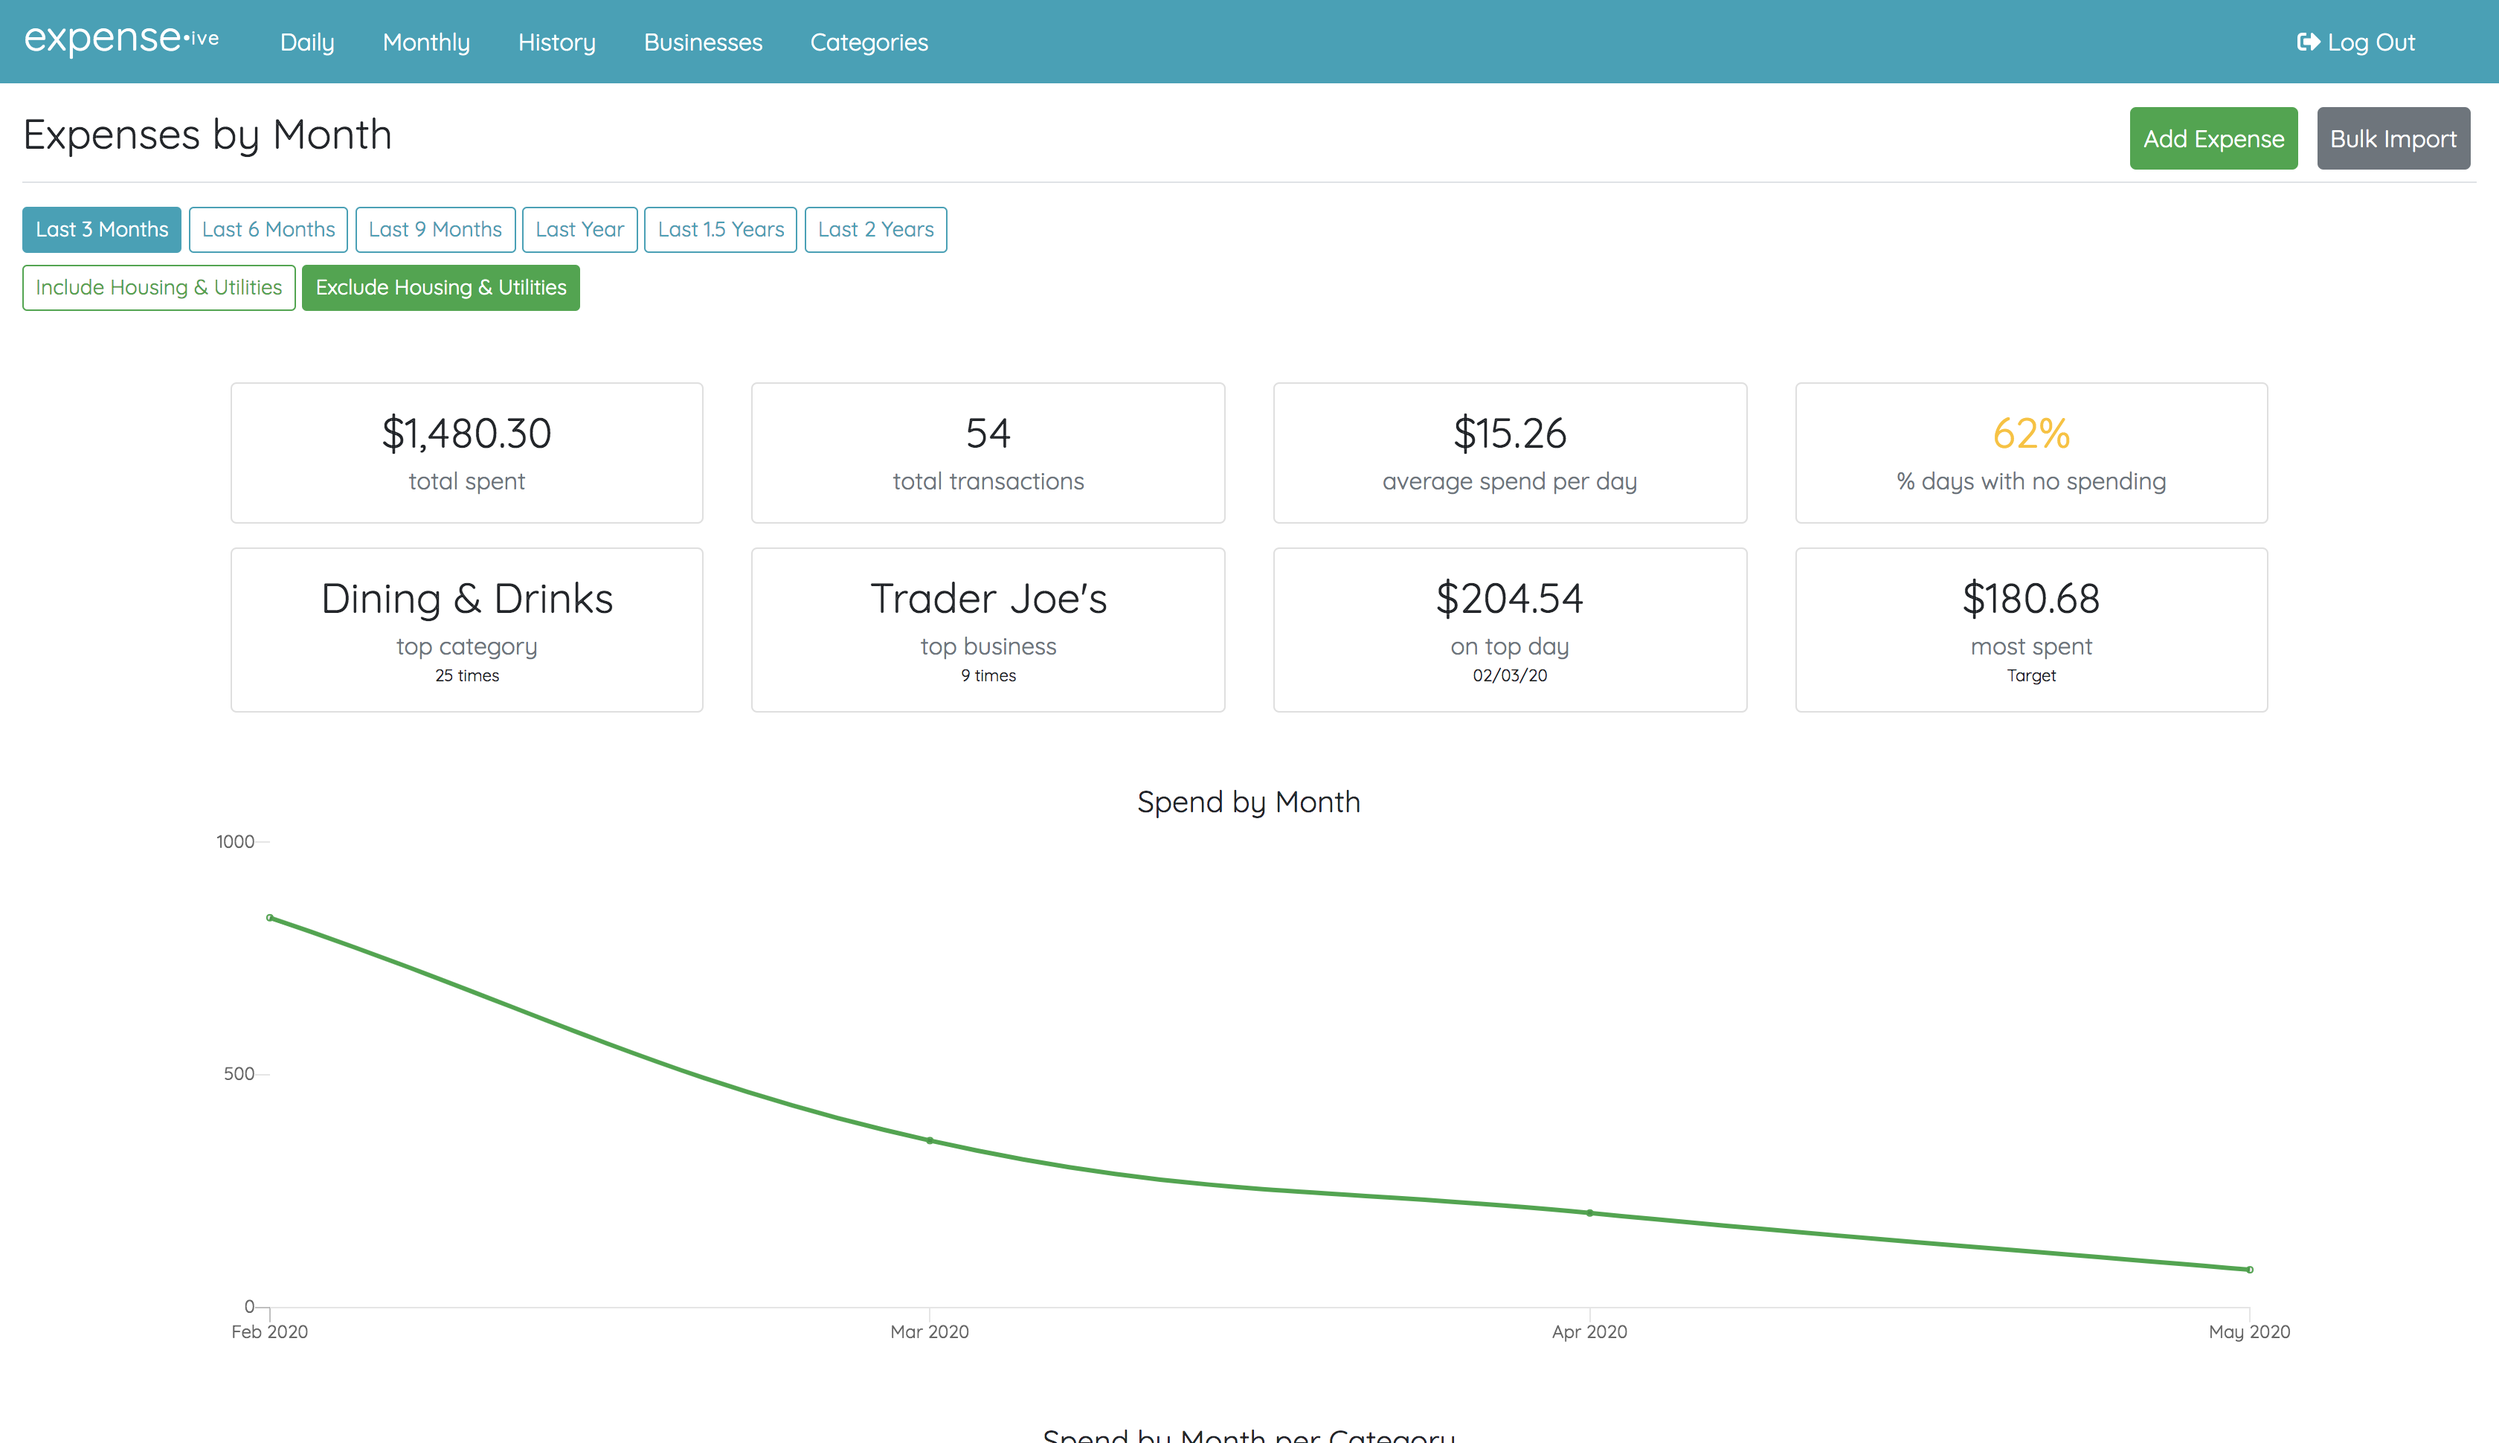
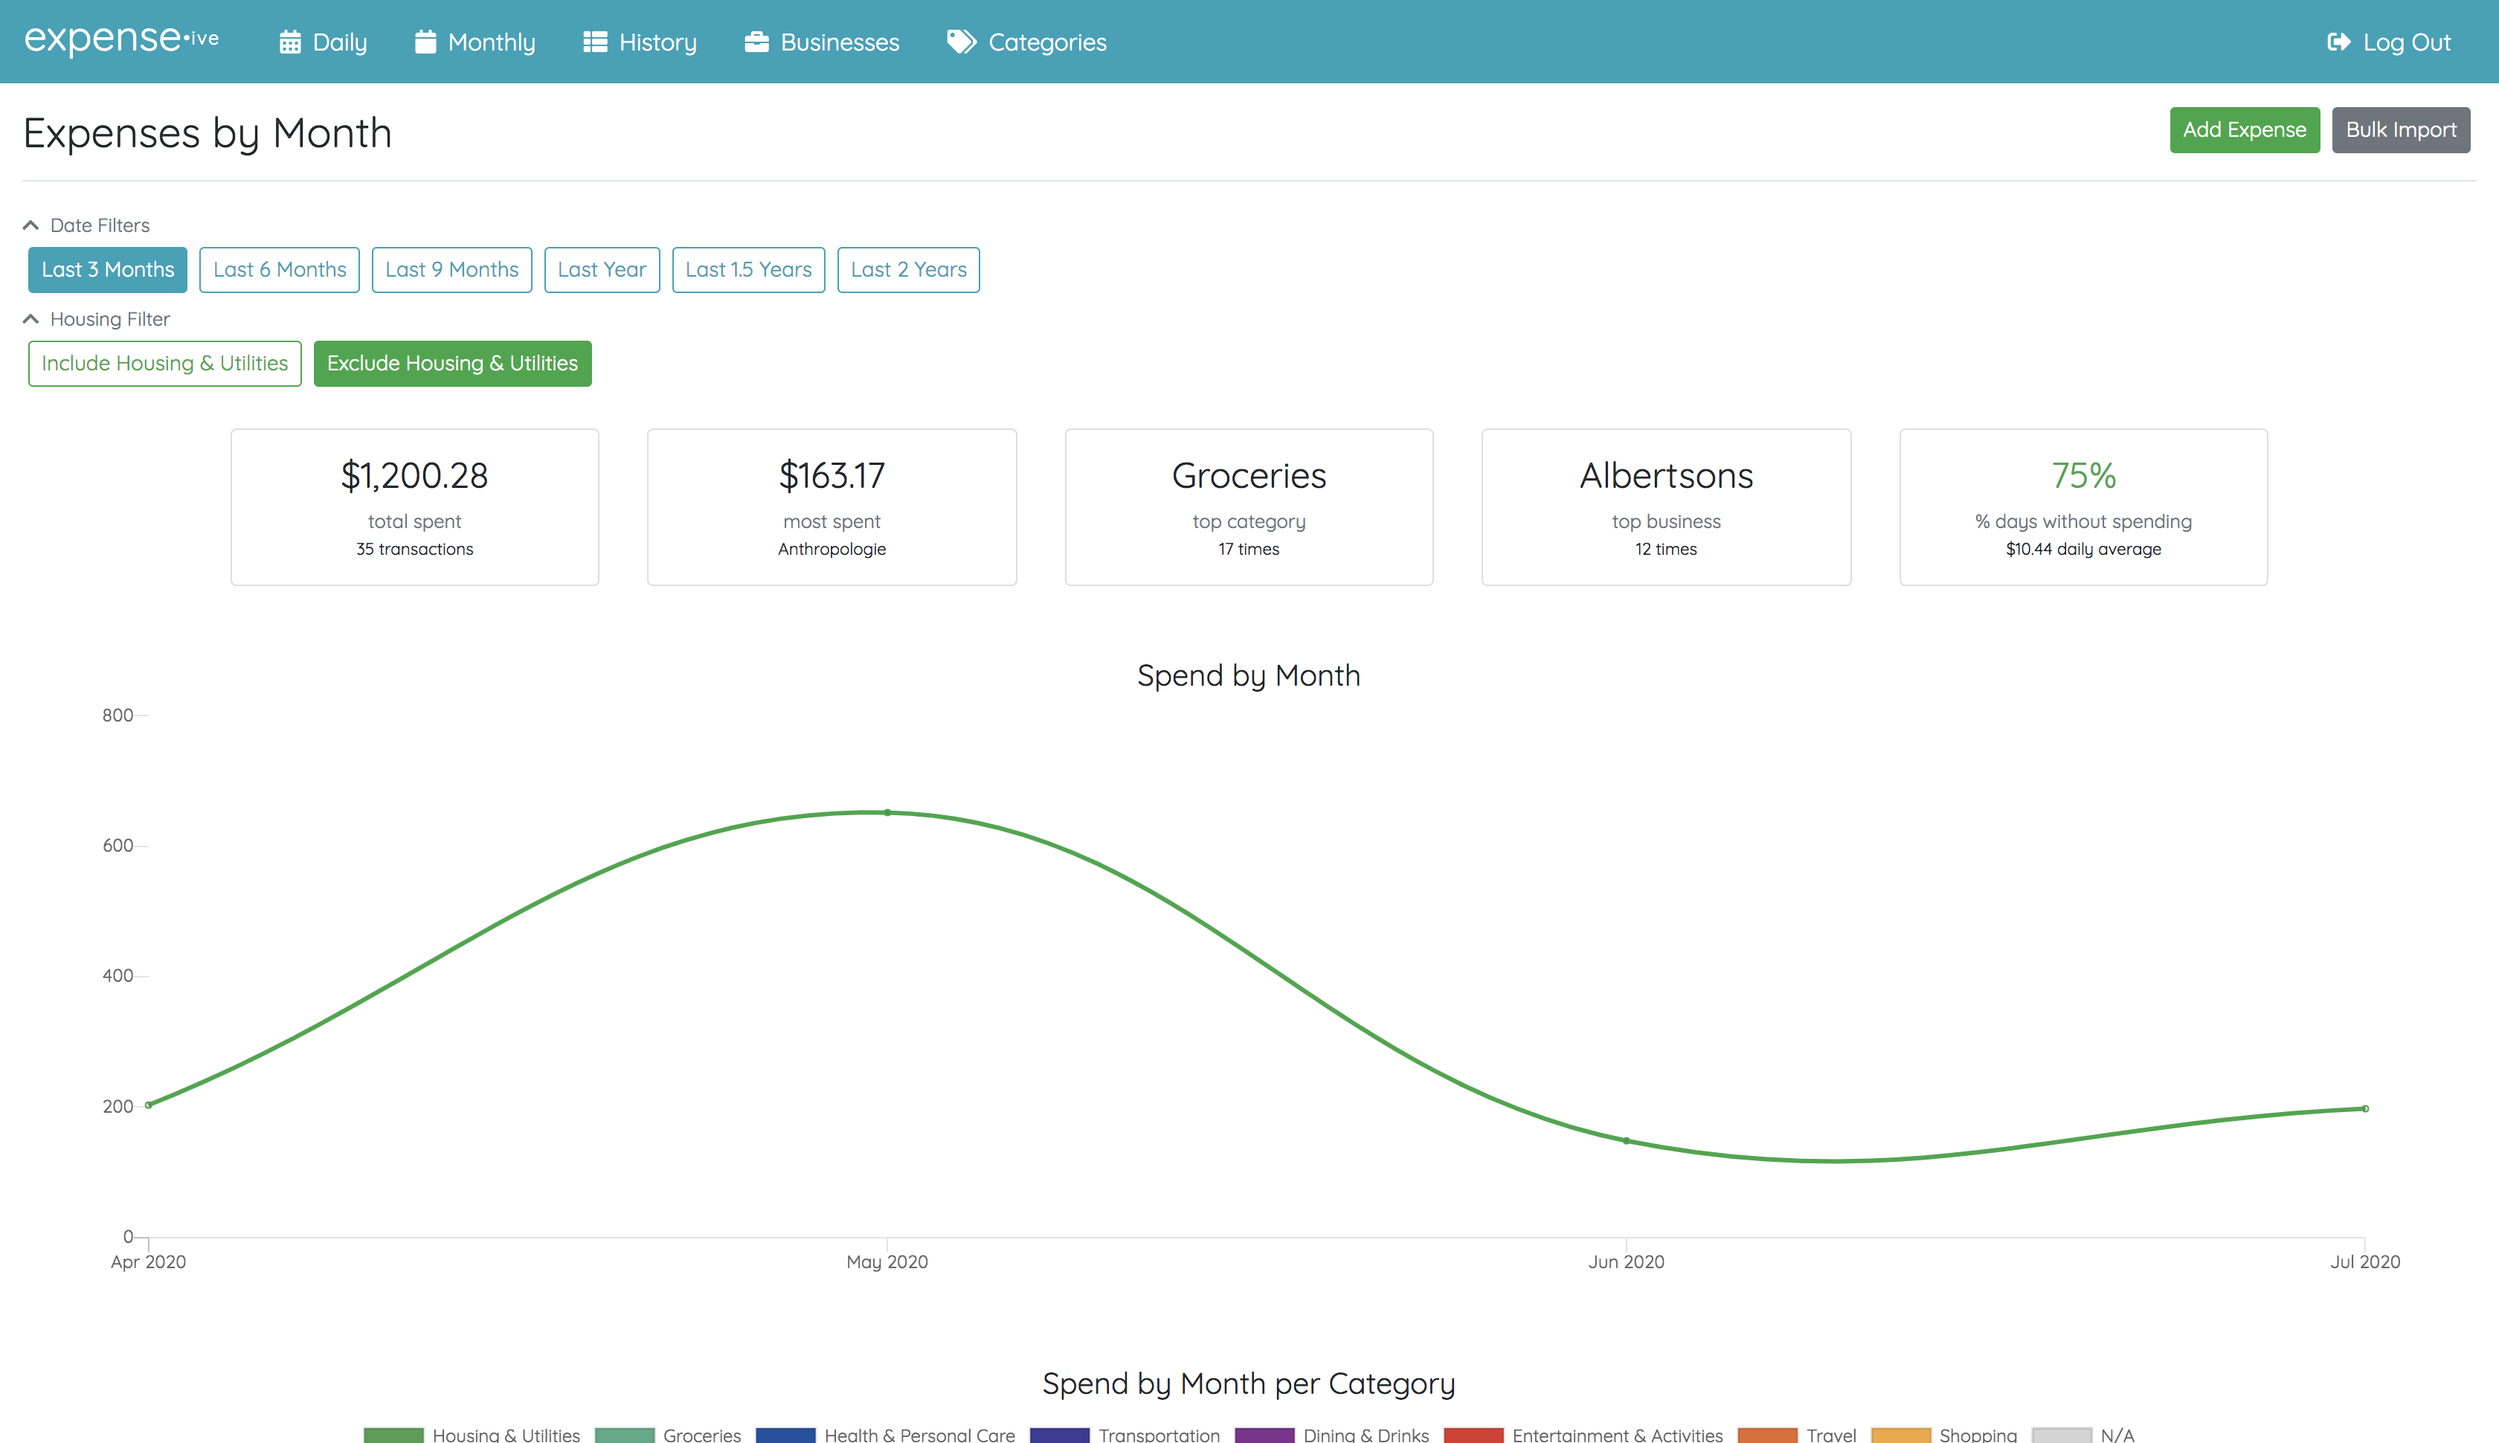
update screenshots to match latest ui for recipedia and expense-ive

diff --git a/index.html b/index.html
@@ -92,6 +92,7 @@
                             <li data-target="#recipediaCarousel" data-slide-to="1"></li>
                             <li data-target="#recipediaCarousel" data-slide-to="2"></li>
                             <li data-target="#recipediaCarousel" data-slide-to="3"></li>
+                            <li data-target="#recipediaCarousel" data-slide-to="4"></li>
                         </ol>
                         <div class="carousel-inner">
                             <div class="carousel-item active">
@@ -101,10 +102,13 @@
                                 <img src="img/recipedia_show.png" class="d-block w-100">
                             </div>
                             <div class="carousel-item">
-                                <img src="img/recipedia_generator.png" class="d-block w-100">
+                                <img src="img/recipedia_roulette.png" class="d-block w-100">
                             </div>
                             <div class="carousel-item">
                                 <img src="img/recipedia_new.gif" class="d-block w-100">
+                            </div>
+                            <div class="carousel-item">
+                                <img src="img/recipedia_search.png" class="d-block w-100">
                             </div>
                         </div>
                         <a class="carousel-control-prev" href="#recipediaCarousel" role="button" data-slide="prev">
@@ -200,7 +204,7 @@
                     <p>
                         The app is pretty much the same tech stack as Recipedia, but I wanted an excuse to play around
                         with charts. It's fairly basic at the moment, but I'm hoping to add more features: better
-                        filters, a larger variety of charts, budgeting data, and responsive design, among others.
+                        filters, a larger variety of charts, and budgeting data, among others.
                     </p>
                     <p>
                         <span class="badge badge-light badge-pill my-1 py-1 px-2">
